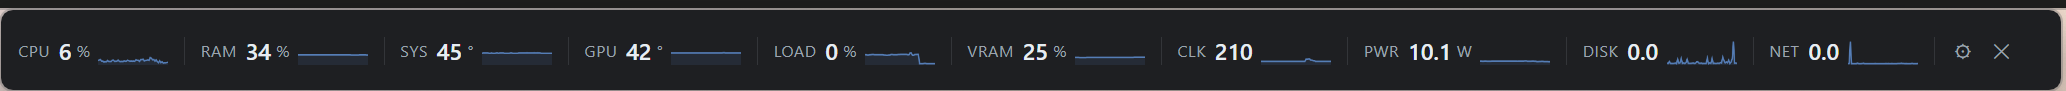
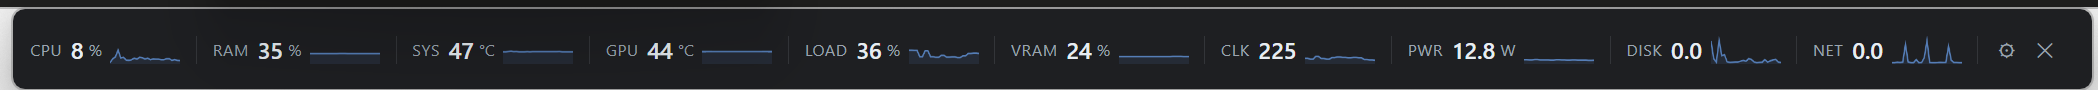
Update hero screenshot to °C and prep 1.0.1
Use an absolute image URL so the hero renders on PyPI, not just GitHub.

diff --git a/glintbar/__init__.py b/glintbar/__init__.py
@@ -1,3 +1,3 @@
 """GlintBar - a slim always-on-top hardware monitor for the Windows taskbar gap."""
 
-__version__ = "1.0.0"
+__version__ = "1.0.1"

diff --git a/README.md b/README.md
@@ -1,6 +1,6 @@
 # GlintBar
 
-![GlintBar sitting in the Windows taskbar: CPU, RAM, SYS, GPU, VRAM, clock, power, disk and network tiles with sparklines](docs/hero.png)
+![GlintBar sitting in the Windows taskbar: CPU, RAM, SYS, GPU, VRAM, clock, power, disk and network tiles with sparklines](https://raw.githubusercontent.com/paone9/GlintBar/main/docs/hero.png)
 
 [![PyPI](https://img.shields.io/pypi/v/glintbar)](https://pypi.org/project/glintbar/)
 [![CI](https://github.com/paone9/GlintBar/actions/workflows/ci.yml/badge.svg)](https://github.com/paone9/GlintBar/actions/workflows/ci.yml)